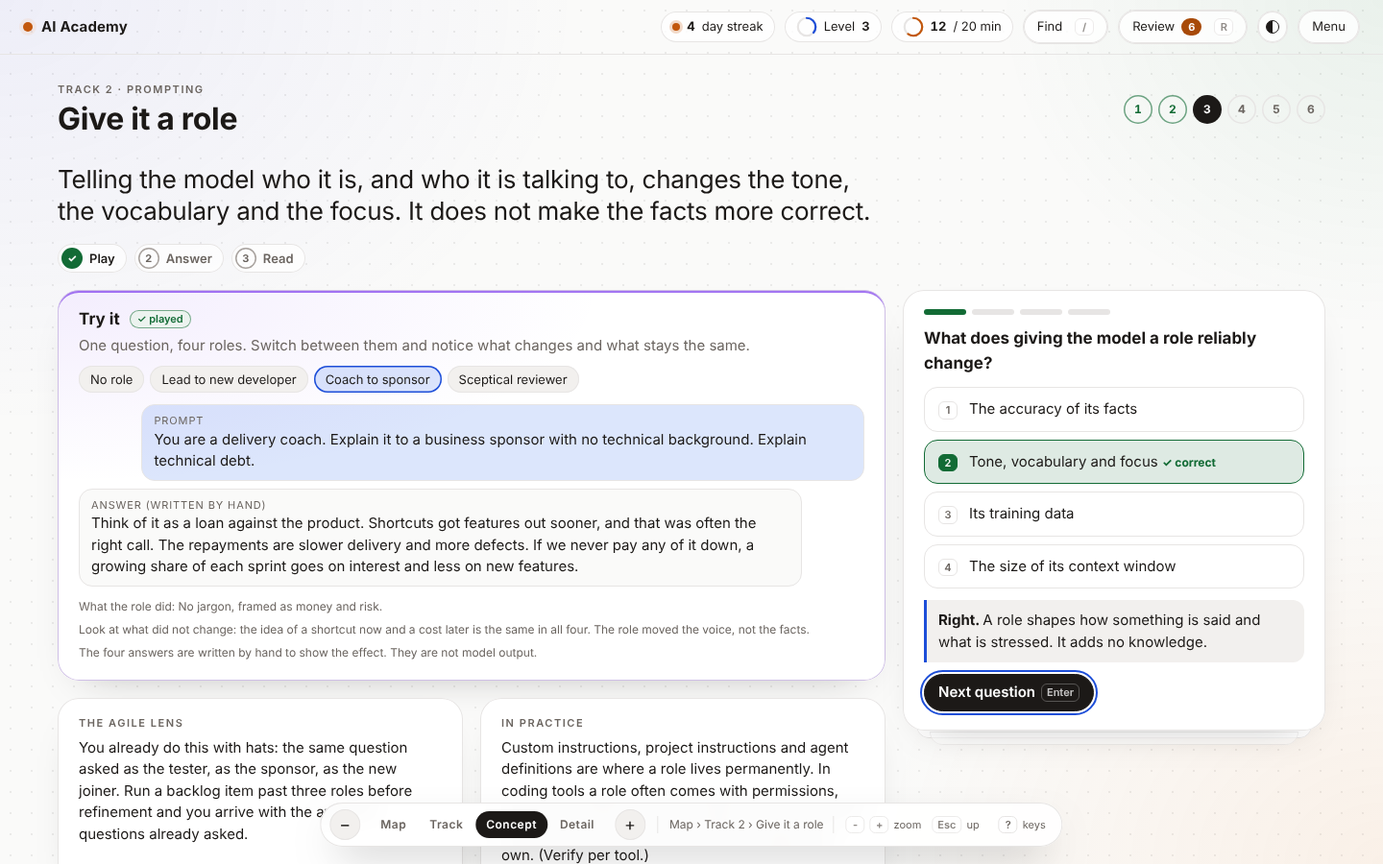
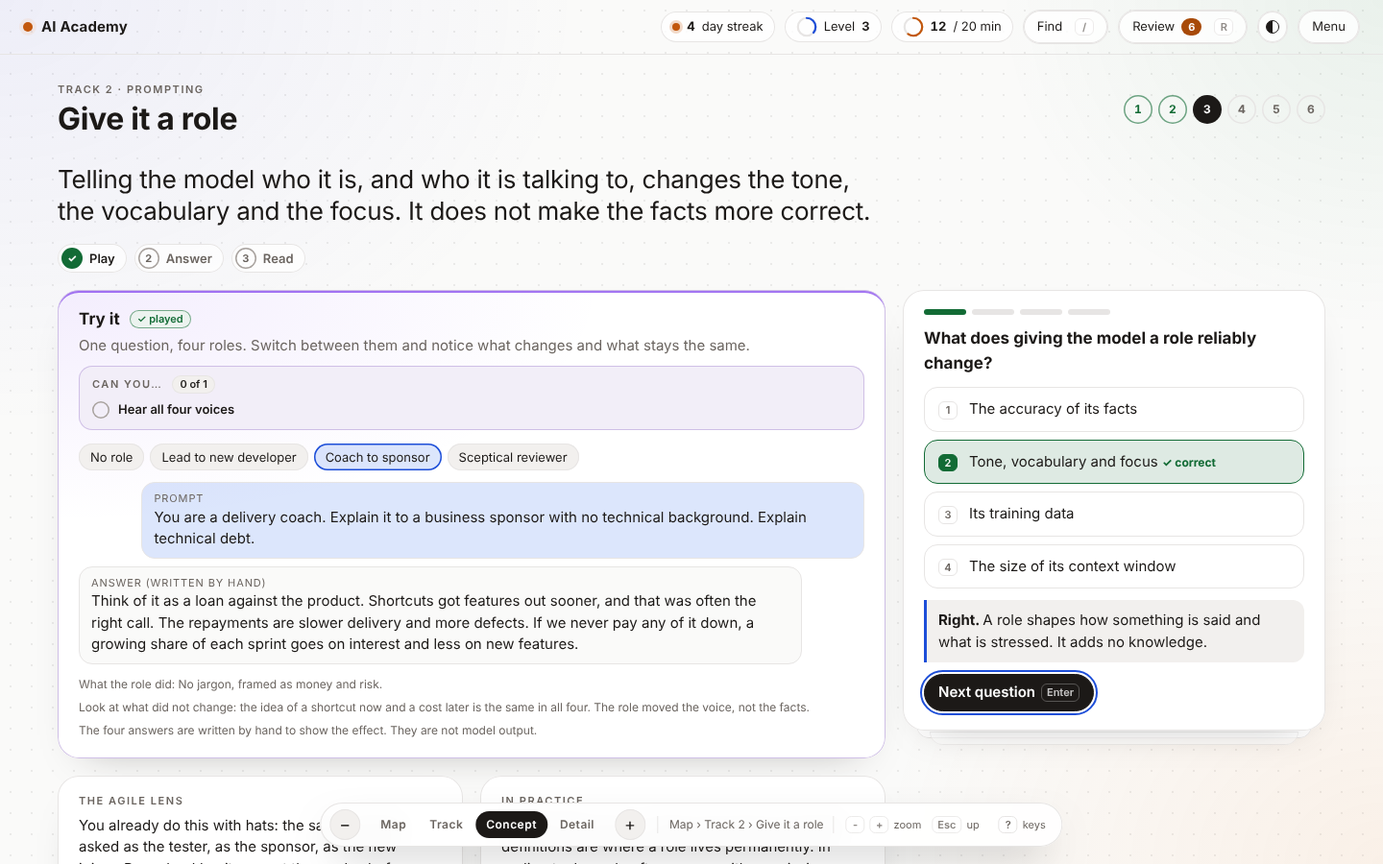
Toys: challenges to find, controls with some weight, optional sound
Each toy lists two or three things to make happen (lose the codename, cause a regression, become the bottleneck). They tick off, burst and are remembered.
Challenges read what the toy shows, so no toy code changes: 21 widgets have hand-written ones, the rest get generic ones (turn a verdict around, try every choice). 45 of 47 lessons have at least one.
Sliders fill in the track's colour with a bigger thumb; checkboxes and radios are drawn by the page and pop when ticked; chips press in; the word just picked lights up.
Sound is off by default; the Menu turns it on. Notes are made with WebAudio, no files.
Saved progress gains found and sound; older files load without them.
Tests: 34 new checks, including one that completes the challenges of 18 toys.

Claude-Session: https://claude.ai/code/session_01SbnCeDgANzMc5u6p79AutJ

Changed region(s): [[0.0625, 0.4044, 0.625, 0.9956], [0.3438, 0.9644, 0.4688, 1.0], [0.3438, 0.4356, 0.4062, 0.4667]]

diff --git a/app.js b/app.js
@@ -9,7 +9,7 @@
   function byId(list, id) { return list.filter(function (x) { return x.id === id; })[0]; }
 
   // ---------- state: kept in this browser only (localStorage), and Save / Load to a file ----------
-  function fresh() { return { v: 1, xp: 0, days: {}, cards: {}, done: {}, goal: 10, read: 22, theme: '', names: [], played: {}, readm: {}, pos: { space: 'learn', track: 'models', concept: 'tokens', zoom: 0, fam: '', role: '' } }; }
+  function fresh() { return { v: 1, xp: 0, days: {}, cards: {}, done: {}, goal: 10, read: 22, theme: '', names: [], played: {}, readm: {}, found: {}, sound: false, pos: { space: 'learn', track: 'models', concept: 'tokens', zoom: 0, fam: '', role: '' } }; }
   // Accept a saved object only if it has the right shape; fill anything missing (older files have no names, no roles position).
   function adopt(j) {
     if (!(j && j.v === 1 && j.cards && typeof j.cards === 'object' && j.days && typeof j.days === 'object')) return null;
@@ -19,7 +19,8 @@
     s.theme = s.theme === 'light' || s.theme === 'dark' ? s.theme : '';
     s.names = Array.isArray(s.names) ? s.names.filter(function (n) { return typeof n === 'string'; }).slice(0, 50) : [];
     if (!s.done || typeof s.done !== 'object') s.done = {};
-    ['played', 'readm'].forEach(function (f) { if (!s[f] || typeof s[f] !== 'object') s[f] = {}; }); // which toys you have poked and which Read more pages you opened
+    s.sound = s.sound === true;
+    ['played', 'readm', 'found'].forEach(function (f) { if (!s[f] || typeof s[f] !== 'object') s[f] = {}; }); // which toys you have poked and which Read more pages you opened
     for (k in s.cards) { c = s.cards[k]; if (!c || typeof c.ef !== 'number' || typeof c.due !== 'number' || typeof c.int !== 'number' || typeof c.rep !== 'number') delete s.cards[k]; }
     for (k in s.days) { c = s.days[k]; if (!c || typeof c.min !== 'number' || typeof c.xp !== 'number') delete s.days[k]; }
     return s;
@@ -33,7 +34,7 @@
   function save() { clearTimeout(saveT); saveT = setTimeout(saveNow, 150); }
   addEventListener('pagehide', saveNow);
   function today() { var k = dayNow(); return S.days[k] || (S.days[k] = { min: 0, xp: 0 }); }
-  function addXp(n) { var l0 = Math.floor(S.xp / 100); S.xp += n; today().xp += n; save(); if (Math.floor(S.xp / 100) > l0) toast('Level ' + (1 + Math.floor(S.xp / 100))); }
+  function addXp(n) { var l0 = Math.floor(S.xp / 100); S.xp += n; today().xp += n; save(); if (Math.floor(S.xp / 100) > l0) { toast('Level ' + (1 + Math.floor(S.xp / 100))); snd('level'); } }
   function activeDay(d) { var x = S.days[d]; return !!x && (x.min >= 1 || x.xp > 0); }
   function streak() { var d = dayNow(), n = 0; if (!activeDay(d)) d--; while (activeDay(d)) { n++; d--; } return n; }
 
@@ -229,12 +230,13 @@
       el.dataset.key = 'learn.' + c.id;
       el.innerHTML = '<div class="wrap lesson" style="--c:' + hue(trackIndex(t)) + '"><div class="head big"><div><div class="kicker">Track ' + (trackIndex(t) + 1) + ' · ' + esc(t.title) + '</div><h1>' + esc(c.title) + '</h1></div><div class="lrail sp" id="lrail" role="group" aria-label="Lessons in this track"></div></div>' +
         '<p class="idea">' + esc(L.idea) + '</p><ol class="steps" id="steps" aria-label="This lesson, in three steps"></ol>' +
-        '<div class="playmat"><section class="card toy" id="toy"><div class="toyhead"><h3>Try it</h3><span class="tag turn" id="toy-state"></span></div><p class="muted" style="margin:0 0 10px">' + esc(L.tryit) + '</p><div class="widget" id="widget"></div><p class="note">' + esc(L.tryNote) + '</p></section>' +
+        '<div class="playmat"><section class="card toy" id="toy"><div class="toyhead"><h3>Try it</h3><span class="tag turn" id="toy-state"></span></div><p class="muted" style="margin:0 0 10px">' + esc(L.tryit) + '</p><div class="missions" id="missions"></div><div class="widget" id="widget"></div><p class="note">' + esc(L.tryNote) + '</p></section>' +
         '<div class="qcol"><section class="card quiz" id="quiz" aria-label="Quiz"></section></div>' +
         '<div class="lenses"><div class="card"><h3>The Agile lens</h3><p>' + esc(L.agile) + '</p></div><div class="card"><h3>In practice</h3><p>' + esc(L.tools) + '</p></div></div></div>' +
         '<p><button type="button" class="btn" data-act="detail" aria-keyshortcuts="+">Read more, in big type' + kbd('+') + '</button></p></div>';
       var host = $('#widget', el);
       if (WIDGETS[L.widget]) WIDGETS[L.widget](host, L, sandboxApi); else host.innerHTML = '<p class="muted">No picture for this one yet.</p>';
+      initMissions(c.id, L.widget, host);
     }
     $('#lrail', el).innerHTML = readyIn(t).map(function (x, i) { // the lessons of this track, as a rail you can walk with the arrows
       return '<button type="button" data-concept="' + x.id + '" class="' + (S.done[x.id] ? 'ok' : '') + '"' + (x.id === c.id ? ' aria-current="true"' : '') + ' title="' + esc(x.title) + '" aria-label="Lesson ' + (i + 1) + ': ' + esc(x.title) + (S.done[x.id] ? ', done' : '') + '">' + (i + 1) + '</button>';
@@ -253,7 +255,93 @@
     var cid = S.pos.concept; if (S.pos.space !== 'learn' || S.pos.zoom !== 2 || !cid || S.played[cid]) return;
     S.played[cid] = true; save(); renderSteps(cid); burst($('#toy-state'), 'var(--ok)', 8);
   }
-  ['input', 'change', 'click'].forEach(function (ev) { $('#L2').addEventListener(ev, function (e) { if (e.target.closest && e.target.closest('#widget') && (ev !== 'click' || e.target.closest('button, input, label'))) markPlayed(); }, true); }); // capture: a toy may redraw the button you pressed before the click gets here
+  ['input', 'change', 'click'].forEach(function (ev) {
+    $('#L2').addEventListener(ev, function (e) { // capture: a toy may redraw the button you pressed before the click gets here
+      if (!(e.target.closest && e.target.closest('#widget') && (ev !== 'click' || e.target.closest('button, input, label')))) return;
+      markPlayed();
+      var b = ev === 'click' && e.target.closest('button'), g = b && b.closest('.exs');
+      if (M && g && M.w.contains(g)) { var k = groupKey(M.w, g); (M.pressed[k] = M.pressed[k] || {})[$$('button', g).indexOf(b)] = 1; }
+      setTimeout(checkMissions, 0); // after the toy has redrawn
+    }, true);
+  });
+
+  // ---------- challenges: two or three things to make happen in each toy. They read what the toy shows, so a toy needs no code of its own for them. ----------
+  function vis(sel) { return function (w) { var e = w.querySelector(sel); return !!e && e.getClientRects().length > 0; }; }
+  function txt(sel, re) { return function (w) { var e = w.querySelector(sel); return !!e && e.getClientRects().length > 0 && re.test(e.textContent); }; }
+  function num(sel, re, test) { return function (w) { var e = w.querySelector(sel), m = e && re.exec(e.textContent); return !!m && test(+m[1], +m[2], +m[3]); }; }
+  function all(sel) { return function (w, m) { var g = w.querySelector(sel); return !!g && Object.keys(m.pressed[groupKey(w, g)] || {}).length >= g.querySelectorAll('button').length; }; }
+  function flipped(w, m) { return m.flipped; }
+  function val(w, sel) { var e = w.querySelector(sel); return e ? +e.value : NaN; }
+  var MISSIONS = {
+    tokens: [['Blow the 100-token budget', vis('#tk-meter.over')], ['Find text that needs a token for every two characters, or worse', function (w) { var b = w.querySelectorAll('#tk-stat b'); return b.length === 4 && +b[0].textContent >= 5 && +b[3].textContent <= 2; }]],
+    context: [['Make the model lose the codename', vis('#cx-verdict.bad')], ['Bring the codename back with a summary', function (w) { return vis('#cx-verdict.ok')(w) && vis('#cx-chat .msg.sum')(w); }]],
+    nexttoken: [['Pick 20 times or more and get the same word every time', num('#nt-sum', /^(\d+) picks?, 1 different/, function (n) { return n >= 20; })], ['Get five different words', num('#nt-sum', /(\d+) different/, function (n) { return n >= 5; })]],
+    training: [['Ask about a word it never saw', txt('#tr-out', /not in its training text/)], ['Change the text and catch the model not noticing', txt('#tr-state', /text changed since training/)]],
+    wrong: [['Catch it inventing an answer', txt('#wr-verdict', /Invented/)], ['Get an honest answer to something the page does not say', txt('#wr-verdict', /Honest/)]],
+    parts: [['Build a prompt that scores 6 of 6', txt('#pt-score', /6 of 6/)]],
+    narrow: [['Tick every adjective and count what is left', function (w) { var t = $$('[data-tell]', w); return t.length > 0 && t.every(function (x) { return x.checked; }); }], ['Narrow it to one reading', txt('#nw-count', /^1 of/)]],
+    rolepick: [['Hear all four voices', all('#rp-tabs')]],
+    formatpick: [['Find a format a program cannot read', txt('#fp-checks', /parser stopped/)], ['Get JSON that parses', txt('#fp-checks', /parsed \d+ items/)]],
+    iterate: [['Pass all four test cases', txt('#it-count', /4 of 4/)], ['Cause a regression', txt('#it-log', /regression/i)]],
+    sandbox: [['Score 6 of 6', txt('#sb-score', /6 of 6/)], ['Set off the real-data warning', vis('#sb-alarm')]],
+    tooluse: [['Make it answer without the tool it needs', vis('#tu-verdict.bad')], ['Ask something that needs no tool', txt('#tu-verdict', /No tool was needed/)]],
+    loop: [['Run it to a finish with the tests passing', vis('#lp-verdict.ok')], ['Stop it with the work half done', txt('#lp-verdict', /half-done/)]],
+    planning: [['Put the steps in an order that works', vis('#pl-order.ok')], ['Approve only where it matters', vis('#pl-gate.ok')], ['Make yourself the bottleneck', txt('#pl-gate', /bottleneck/)]],
+    memory: [['Get a stale answer', txt('#mm-verdict', /Stale/)], ['Set off the secret warning', vis('#mm-secret')]],
+    chain: [['Keep each step at 95 in 100 or better, and still fall below 50%', function (w) { return val(w, '#ch-p') >= 95 && parseFloat(($('#ch-out b', w) || {}).textContent) < 50; }], ['Lift a job of 20 steps or more above 90%', function (w) { return val(w, '#ch-n') >= 20 && parseFloat(($('#ch-out b', w) || {}).textContent) >= 90; }]],
+    terms: [['Look up all six words', all('#tm-pick')]],
+    gates: [['Let it build the wrong thing', vis('#gt-verdict.bad')], ['Get it right by luck, with no record', txt('#gt-verdict', /luck/)]],
+    whodoes: [['Sort every task in one phase', function (w) { var n = $$('#wd-body fieldset', w).length; return n > 0 && $$('#wd-body input:checked', w).length === n; }]],
+    claims: [['Judge every statement', num('#cl-score', /of (\d+) right so far, out of (\d+)/, function (a, b) { return a === b; })]],
+    rehearse: [['Write your own answer, then compare it with the sample', function (w) { var e = w.querySelector('#rh-sample'); return !!e && e.textContent.trim().length > 0; }]]
+  };
+  var M = null; // the toy on screen: its lesson, its challenges, what has been pressed, and how its verdicts stood
+  function groupKey(w, g) { return g.id || 'g' + $$('.exs', w).indexOf(g); }
+  function verdicts(w) { return $$('.verdict', w).map(function (v) { return v.classList.contains('ok') ? 'o' : v.classList.contains('bad') ? 'b' : '-'; }); }
+  function initMissions(cid, name, w) {
+    var list = MISSIONS[name], g;
+    if (!list) { // a toy with no challenges written for it still gets what can be told from the outside
+      list = []; g = w.querySelector('.exs');
+      if (w.querySelector('.verdict')) list.push(['Turn a verdict around: from good to bad, or back', flipped]);
+      if (g && g.querySelectorAll('button').length >= 3) list.push(['Try every choice in the first row', all('.exs')]);
+    }
+    M = { cid: cid, w: w, list: list, pressed: {}, flipped: false, sig: verdicts(w) };
+    renderMissions();
+  }
+  function renderMissions() {
+    var box = $('#missions'); if (!box || !M) return;
+    var f = S.found[M.cid] || [], n = M.list.filter(function (x, i) { return f[i]; }).length, done = n === M.list.length;
+    box.hidden = !M.list.length;
+    box.innerHTML = M.list.length ? '<div class="mhead"><span class="label">Can you…</span><span class="tag' + (done ? ' go' : '') + '">' + (done ? 'all found' : n + ' of ' + M.list.length) + '</span></div><ul>' +
+      M.list.map(function (x, i) { return '<li class="' + (f[i] ? 'ok' : '') + '"><i aria-hidden="true">' + (f[i] ? '✓' : '') + '</i>' + esc(x[0]) + '<span class="sr">' + (f[i] ? ', found' : '') + '</span></li>'; }).join('') + '</ul>' : '';
+  }
+  function checkMissions() {
+    if (!M || S.pos.space !== 'learn' || S.pos.zoom !== 2 || M.cid !== S.pos.concept || !document.contains(M.w)) return;
+    var s = verdicts(M.w), f = S.found[M.cid] || (S.found[M.cid] = []), hit = -1, i;
+    if (s.length === M.sig.length) for (i = 0; i < s.length; i++) if ((s[i] === 'o' && M.sig[i] === 'b') || (s[i] === 'b' && M.sig[i] === 'o')) M.flipped = true;
+    M.sig = s;
+    M.list.forEach(function (x, k) { if (!f[k] && x[1](M.w, M)) { f[k] = true; hit = k; } });
+    if (hit < 0) return;
+    save(); renderMissions(); snd('found'); burst($$('#missions li')[hit], 'var(--ok)', 10);
+    if (M.list.every(function (x, k) { return f[k]; })) toast('All found');
+  }
+
+  // ---------- sound: off unless you turn it on in the Menu. A few soft notes made in the browser; no files. ----------
+  var AC = null;
+  function snd(kind) {
+    if (!S.sound) return;
+    try {
+      AC = AC || new (window.AudioContext || window.webkitAudioContext)();
+      var t = AC.currentTime, notes = { ok: [660, 880], bad: [196], found: [523, 659, 784], level: [523, 659, 784, 1047] }[kind] || [440];
+      notes.forEach(function (hz, i) {
+        var o = AC.createOscillator(), g = AC.createGain(), at = t + i * 0.09;
+        o.type = kind === 'bad' ? 'triangle' : 'sine'; o.frequency.value = hz;
+        g.gain.setValueAtTime(0.0001, at); g.gain.linearRampToValueAtTime(0.07, at + 0.012); g.gain.exponentialRampToValueAtTime(0.0001, at + 0.24);
+        o.connect(g); g.connect(AC.destination); o.start(at); o.stop(at + 0.26);
+      });
+    } catch (e) { /* no audio here: stay silent */ }
+  }
+  function fillRange(el) { var lo = +el.min || 0, hi = el.max === '' ? 100 : +el.max; el.style.setProperty('--v', (hi > lo ? (el.value - lo) / (hi - lo) * 100 : 0).toFixed(1) + '%'); } // how far along a slider is, for its coloured track
 
   // ---------- small celebrations: a burst of dots, a number that floats up. Skipped when reduced motion is on. ----------
   var calm = window.matchMedia ? matchMedia('(prefers-reduced-motion: reduce)') : { matches: false };
@@ -411,7 +499,7 @@
     var q = QSETS[Q.sid][Q.i]; if (i >= q.opts.length) return;
     var ok = i === q.a, g = 0; Q.picked = i; Q.res[Q.i] = ok; if (ok) Q.right++; Q.combo = ok ? (Q.combo || 0) + 1 : 0;
     if (!S.cards[q.id]) { grade(q.id, ok ? 4 : 1); g = ok ? 5 : 1; addXp(g); Q.gain = (Q.gain || 0) + g; Q.added = (Q.added || 0) + 1; } // only the first sight of a question makes a card and earns XP
-    renderQuiz(true); renderChips();
+    renderQuiz(true); renderChips(); snd(ok ? 'ok' : 'bad');
     var hit = $(Q.box + ' .opt.right'); if (ok) burst(hit, 'var(--ok)', 10); if (g) flyXp(ok ? hit : $(Q.box + ' .opt.wrong'), g);
   }
   function nextQ() {
@@ -438,7 +526,7 @@
     var g = ''; [10, 20, 30, 45, 60].forEach(function (m) { g += '<label><input type="radio" name="m-goal" value="' + m + '"' + (m === S.goal ? ' checked' : '') + ' aria-label="' + m + ' minutes"><span>' + m + '</span></label>'; });
     $('#menu').innerHTML = '<h3>Go to</h3><div class="row"><button type="button" class="btn" data-m="map">Learning map' + kbd('M') + '</button>' + (RO ? '<button type="button" class="btn" data-m="roles">Roles tree' + kbd('T') + '</button>' : '') + (WIDGETS.sandbox ? '<button type="button" class="btn" data-m="sandbox">Prompt sandbox' + kbd('S') + '</button>' : '') + '</div>' +
       '<h3>Daily goal</h3><div class="row"><div class="segctl" id="m-goal" role="radiogroup" aria-label="Daily goal">' + g + '</div><span class="muted" style="font-size:13px">minutes</span></div>' +
-      '<h3>Look</h3><div class="row"><button type="button" class="btn" data-m="theme">Theme: ' + (S.theme || 'auto') + '</button></div>' +
+      '<h3>Look and sound</h3><div class="row"><button type="button" class="btn" data-m="theme">Theme: ' + (S.theme || 'auto') + '</button><button type="button" class="btn" data-m="sound" aria-pressed="' + !!S.sound + '">Sound: ' + (S.sound ? 'on' : 'off') + '</button></div>' +
       '<h3>Your progress</h3><p class="muted" style="margin:0;font-size:13px">Kept in this browser only. Save a copy to a file to move it or keep it safe.</p>' +
       '<div class="row"><button type="button" class="btn" data-m="save">Save to file</button><button type="button" class="btn" data-m="load">Load from file</button><button type="button" class="btn warn" data-m="reset">' + (resetArmed ? 'Press again to erase it all' : 'Reset progress') + '</button></div>' + (menuMsg ? '<p class="muted" style="margin:0;font-size:13px" role="status" id="m-msg">' + esc(menuMsg) + '</p>' : '') +
       '<h3>Keys</h3><div class="row"><button type="button" class="btn" data-m="keys">Keyboard shortcuts' + kbd('?') + '</button></div>' +
@@ -492,7 +580,7 @@
     box.innerHTML = '<div class="sheet"><div class="sheethead"><h2 class="kicker" id="rv-title">Review · card ' + (R.i + 1) + ' of ' + R.ids.length + '</h2>' + segs(shown) + close + '</div><div class="card"><p class="q" tabindex="-1">' + esc(q.q) + '</p>' + optsHtml(q, R.picked, 'data-ropt', focus) + tail + '</div></div>';
     if (focus) { var f = R.picked === null ? $('.q', box) : $('[data-g="4"]', box) || $('[data-g="1"]', box); if (f) f.focus(); }
   }
-  function rpick(i) { if (R && R.picked === null && R.i < R.ids.length && i < QINDEX[R.ids[R.i]].opts.length) { R.picked = i; renderReview(true); if (i === QINDEX[R.ids[R.i]].a) burst($('#review .opt.right'), 'var(--ok)', 10); } }
+  function rpick(i) { if (R && R.picked === null && R.i < R.ids.length && i < QINDEX[R.ids[R.i]].opts.length) { R.picked = i; renderReview(true); snd(i === QINDEX[R.ids[R.i]].a ? 'ok' : 'bad'); if (i === QINDEX[R.ids[R.i]].a) burst($('#review .opt.right'), 'var(--ok)', 10); } }
   function rgrade(g) { if (!R || R.picked === null) return; var id = R.ids[R.i]; grade(id, g); addXp(2); R.gain += 2; R.i++; R.picked = null; renderReview(true); renderChips(); }
 
   // The sandbox keeps the names you list (to warn about them) in this browser. They are left out of the Save file.
@@ -590,6 +678,7 @@
   var MARKED = '.on, .cur, .here, [aria-pressed="true"], [aria-current]';
   function itemsOf(g) { return $$(ITEMS, g).filter(function (x) { return x.closest(GROUPS) === g; }); }
   function rove() {
+    $$('.widget input[type=range]').forEach(fillRange);
     $$(GROUPS).forEach(function (g) {
       var it = itemsOf(g); if (!it.length) return;
       var a = document.activeElement, cur = it.indexOf(a) >= 0 ? a : it.filter(function (x) { return x.getAttribute('tabindex') === '0'; })[0] || it.filter(function (x) { return x.matches(MARKED); })[0] || it[0];
@@ -687,7 +776,7 @@
     if (b.id === 'c-menu') return toggleMenu();
   });
   function goContinue() { var nx = nextLesson(); if (nx) act(function () { goLesson(nx); }); }
-  function toggleMenu() { var m = $('#menu'); if (m.hidden) { renderMenu(); m.hidden = false; rove(); var f = $('button', m); if (f) f.focus(); } else return closeMenu(true); $('#c-menu').setAttribute('aria-expanded', 'true'); }
+  function toggleMenu() { var m = $('#menu'); if (m.hidden) { renderMenu(); m.hidden = false; var f = $('button', m); if (f) f.focus(); rove(); } else return closeMenu(true); $('#c-menu').setAttribute('aria-expanded', 'true'); }
   function closeMenu(refocus) { var m = $('#menu'); if (!m.hidden) { m.hidden = true; $('#c-menu').setAttribute('aria-expanded', 'false'); if (refocus) $('#c-menu').focus(); } }
   $('#menu').addEventListener('focusout', function (e) { var to = e.relatedTarget; if (to && !$('#menu').contains(to) && to.id !== 'c-menu') closeMenu(); }); // Tab out of the menu and it closes behind you
   function menuAct(a) {
@@ -697,6 +786,7 @@
     if (a === 'sandbox') { $('#c-menu').focus(); closeMenu(); return openSandbox(); } // focus first: closing the sheet hands it back to the Menu button
     if (a === 'keys') { $('#c-menu').focus(); closeMenu(); return openKeys(); }
     if (a === 'theme') cycleTheme();
+    else if (a === 'sound') { S.sound = !S.sound; save(); snd('found'); }
     else if (a === 'save') {
       var out = Object.assign({}, S, { names: [], saved: new Date().toISOString() }); // the names you listed for the sandbox stay out of the file
       var blob = new Blob([JSON.stringify(out, null, 1)], { type: 'application/json' }), x = document.createElement('a');
@@ -706,7 +796,7 @@
     else if (a === 'reset') { if (!resetArmed) { resetArmed = true; renderMenu(); rove(); $('[data-m="reset"]').focus(); setTimeout(function () { resetArmed = false; if (!$('#menu').hidden && $('[data-m="reset"]')) { var had = document.activeElement === $('[data-m="reset"]'); renderMenu(); rove(); if (had) $('[data-m="reset"]').focus(); } }, 4000); return; } resetArmed = false; S = fresh(); try { localStorage.removeItem(KEY); } catch (e) { /* nothing stored */ } Q = null; applyTheme(); applyRead(); $('#L2').dataset.key = ''; renderAll(); menuMsg = 'Progress erased.'; }
     renderMenu(); rove(); var again = $('[data-m="' + a + '"]'); if (again) again.focus();
   }
-  document.addEventListener('input', function (e) { if (F && e.target.id === 'fd-in') findDraw(e.target.value); });
+  document.addEventListener('input', function (e) { if (F && e.target.id === 'fd-in') findDraw(e.target.value); if (e.target.type === 'range') fillRange(e.target); });
   document.addEventListener('change', function (e) {
     if (e.target.name === 'm-goal') { S.goal = +e.target.value; save(); renderChips(); }
     if (e.target.id === 'm-file' && e.target.files[0]) {

diff --git a/tests/run.js b/tests/run.js
@@ -1338,6 +1338,109 @@ ok((await page.locator('#rt-verdict').getAttribute('class')).includes('bad') && 
   eq([await page.locator('.burst, .xpfly').count(), await text(page, '#toy-state'), await page.locator('#quiz .opt.right').count()], [0, '✓ played', 1], 'with reduced motion on there are no bursts or floating numbers, and everything still works');
   await page.close();
 
+  // ------------------------------------------------------------------ toys: challenges, controls, sound
+  section('Toys: challenges to find, controls, sound');
+  page = await open(browser, { viewport: { width: 1440, height: 900 } });
+  const found = id => D(page, id => (ACADEMY_DEBUG.state().found[id] || []).map(Boolean), id);
+  const mlist = () => D(page, () => [...document.querySelectorAll('#missions li')].map(l => (l.classList.contains('ok') ? '+' : '-') + l.childNodes[1].textContent));
+  const settle = () => page.waitForTimeout(30);
+  await goLesson(page, 'models', 'context');
+  eq([await mlist(), await text(page, '#missions .tag')], [['-Make the model lose the codename', '-Bring the codename back with a summary'], '0 of 2'], 'a toy lists its challenges, none found yet');
+  await setRange(page, '#cx-turns', 9); await setRange(page, '#cx-win', 80); await settle();
+  eq([await found('context'), (await mlist())[0], await text(page, '#missions .tag')], [[true], '+Make the model lose the codename', '1 of 2'], 'making it happen ticks the challenge');
+  ok(await page.locator('.burst').count() >= 1, 'with a burst');
+  await setRange(page, '#cx-win', 140); await page.check('#cx-sum'); await settle();
+  eq([await found('context'), await text(page, '#missions .tag'), await text(page, '#toast')], [[true, true], 'all found', 'All found'], 'the second one too, and the toy says all found');
+  await setRange(page, '#cx-win', 200); await page.uncheck('#cx-sum'); await settle();
+  eq(await found('context'), [true, true], 'a challenge stays found when the toy moves on');
+
+  await goLesson(page, 'models', 'tokens');
+  await page.fill('#tk-in', 'word '.repeat(110)); await settle();
+  await page.fill('#tk-in', '1 2 3 4 5 6 7 8'); await settle();
+  eq(await found('tokens'), [true, true], 'tokens: both challenges can be found (over the budget, and a token for every two characters)');
+  await goLesson(page, 'models', 'nexttoken');
+  await setRange(page, '#nt-t', 0); await page.click('#widget [data-n="20"]'); await settle();
+  ok(await page.locator('#nt-bars .bar.hit').count() === 1, 'next token: the word just picked lights up');
+  await page.click('#widget [data-n="0"]'); await setRange(page, '#nt-t', 2);
+  for (let i = 0; i < 4; i++) await page.click('#widget [data-n="20"]'); await settle();
+  eq(await found('nexttoken'), [true, true], 'next token: one word every time at temperature 0, five different at temperature 2');
+  await goLesson(page, 'models', 'training');
+  await page.click('#widget [data-a="train"]'); await page.click('#widget [data-start="cook"]'); await settle();
+  await page.fill('#tr-text', 'The cook chops the onions.'); await settle();
+  eq(await found('training'), [true, true], 'training: both found');
+  await goLesson(page, 'models', 'wrong');
+  await page.click('#widget [data-q="1"]'); await page.click('#wr-check'); await settle();
+  await page.check('#widget input[value="idk"]'); await page.click('#widget [data-q="1"]'); await page.click('#wr-check'); await settle();
+  eq(await found('wrong'), [true, true], 'sure and wrong: both found');
+  await goLesson(page, 'prompting', 'parts');
+  for (const id of ['role', 'context', 'format', 'constraints', 'example']) await page.check('#widget [data-part="' + id + '"]'); await settle();
+  eq(await found('parts'), [true], 'parts: found');
+  await goLesson(page, 'prompting', 'examples');
+  for (const i of [0, 1, 2]) await page.check('#widget [data-tell="' + i + '"]'); await settle();
+  await page.check('#widget [data-show="0"]'); await page.check('#widget [data-show="1"]'); await settle();
+  eq(await found('examples'), [true, true], 'show, do not tell: both found');
+  await goLesson(page, 'prompting', 'roles');
+  for (const i of [1, 2, 3]) await page.click('#widget [data-v="' + i + '"]'); await settle();
+  eq(await found('roles'), [], 'roles: three of four voices is not all of them');
+  await page.click('#widget [data-v="0"]'); await settle();
+  eq(await found('roles'), [true], 'roles: all four is');
+  await goLesson(page, 'prompting', 'format');
+  await page.click('#widget [data-f="3"]'); await settle(); await page.click('#widget [data-f="4"]'); await settle();
+  eq(await found('format'), [true, true], 'format: both found');
+  await goLesson(page, 'prompting', 'iterate');
+  for (const id of ['who', 'list', 'none']) await page.check('#widget [data-fix="' + id + '"]'); await settle();
+  await page.check('#widget [data-fix="creative"]'); await settle();
+  eq(await found('iterate'), [true, true], 'iterate: both found');
+  await goLesson(page, 'prompting', 'judge');
+  await page.click('#L2 #widget [data-ex="2"]'); await settle(); await page.click('#L2 #widget [data-ex="3"]'); await settle();
+  eq(await found('judge'), [true, true], 'judging a prompt: both found');
+  await goLesson(page, 'agents', 'tooluse');
+  await page.uncheck('#widget [data-tool="calc"]'); await settle(); await page.click('#widget [data-q="2"]'); await settle();
+  eq(await found('tooluse'), [true, true], 'tool use: both found');
+  await goLesson(page, 'agents', 'loop');
+  await page.click('#widget [data-a="run"]'); await settle();
+  await page.click('#widget [data-a="reset"]'); await setRange(page, '#lp-max', 4); await page.click('#widget [data-a="run"]'); await settle();
+  eq(await found('loop'), [true, true], 'agent loop: both found');
+  await goLesson(page, 'agents', 'planning');
+  await page.check('#widget [data-gate="deploy"]'); await settle();
+  for (const id of ['read', 'write', 'code']) await page.check('#widget [data-gate="' + id + '"]'); await settle();
+  eq((await found('planning')).slice(1), [true, true], 'planning: the approval challenges are found (the order one is covered by the planning checks above)');
+  await goLesson(page, 'agents', 'memory');
+  await page.check('#widget [data-save="secret"]'); await settle(); await page.click('#widget [data-a="new"]'); await page.check('#widget [data-change]'); await page.click('#widget [data-ask="day"]'); await settle();
+  eq(await found('memory'), [true, true], 'memory: both found');
+  await goLesson(page, 'agents', 'agentfail');
+  await setRange(page, '#ch-n', 20); await settle(); await page.check('#ch-check'); await settle();
+  eq(await found('agentfail'), [true, true], 'where agents fail: both found');
+  await goLesson(page, 'agile', 'aidlc');
+  for (const i of [0, 1, 2, 3, 4, 5]) await page.click('#widget [data-t="' + i + '"]'); await settle();
+  eq(await found('aidlc'), [true], 'AI-DLC terms: found');
+  await goLesson(page, 'agile', 'aigates');
+  await page.uncheck('#gt-on'); await settle(); await page.check('#widget [data-need="pdf"]'); await settle();
+  eq(await found('aigates'), [true, true], 'gates: both found');
+  await goLesson(page, 'agile', 'airehearse');
+  await page.fill('#rh-in', 'AI-DLC is a method that makes AI the engine of each step, with people validating.'); await page.click('#rh-show'); await settle();
+  eq(await found('airehearse'), [true], 'rehearse: found');
+
+  const cover = await D(page, () => { const out = { all: 0, some: 0, none: [] }; ACADEMY.tracks.forEach(t => t.concepts.forEach(c => { if (!ACADEMY.lessons[c.id]) return; ACADEMY_DEBUG.go(2, t.id, c.id); out.all++; if (document.querySelectorAll('#missions li').length) out.some++; else out.none.push(c.id); })); return out; });
+  ok(cover.some >= 40 && cover.some >= cover.all - 12, 'most toys have at least one challenge (written for the first tracks, read from the toy for the rest)', cover.some + ' of ' + cover.all + '; none: ' + cover.none.join(' '));
+  ok(await D(page, none => { if (!none.length) return true; const t = ACADEMY.tracks.find(t => t.concepts.some(c => c.id === none[0])); ACADEMY_DEBUG.go(2, t.id, none[0]); return document.querySelector('#missions').hidden; }, cover.none), 'a toy with no challenge hides the box');
+  console.log('    challenges: ' + cover.some + ' of ' + cover.all + ' toys' + (cover.none.length ? '; none on: ' + cover.none.join(', ') : ''));
+
+  await goLesson(page, 'models', 'context'); await setRange(page, '#cx-win', 160);
+  eq(await D(page, () => [document.querySelector('#cx-win').style.getPropertyValue('--v'), getComputedStyle(document.querySelector('#cx-sum')).appearance]), ['52.4%', 'none'], 'sliders know how far along they are (for the coloured track), and checkboxes are drawn by the page');
+  await page.focus('#cx-win'); await page.keyboard.press('ArrowRight');
+  ok(/170 tokens/.test(await text(page, '#cx-winv')) && await page.locator('#cx-sum').isChecked() === false, 'and they still work from the keyboard');
+  await page.focus('#cx-sum'); await page.keyboard.press('Space'); ok(await page.locator('#cx-sum').isChecked(), 'Space still ticks a checkbox');
+
+  await page.click('#c-menu'); await page.click('#menu [data-m="sound"]');
+  eq(await D(page, () => [ACADEMY_DEBUG.state().sound, document.activeElement.dataset.m, document.activeElement.textContent, document.activeElement.getAttribute('aria-pressed')]), [true, 'sound', 'Sound: on', 'true'], 'the Menu turns sound on, and the button says so and keeps focus');
+  await page.keyboard.press('Escape'); await goLesson(page, 'models', 'tokens'); await page.keyboard.press('1'); await page.keyboard.press('Enter'); await page.keyboard.press('2');
+  eq(page.errors, [], 'answering with sound on raises no errors');
+  await page.reload();
+  eq(await D(page, () => [ACADEMY_DEBUG.state().sound, ACADEMY_DEBUG.state().found.context.length, ACADEMY_DEBUG.adopt({ v: 1, cards: {}, days: {} }).sound]), [true, 2, false], 'sound and found challenges survive a reload; sound is off in a fresh or older save');
+  eq(page.net, [], 'sound is made in the browser: still nothing over the network');
+  await page.close();
+
   await browser.close();
   console.log('\n' + pass + ' passed, ' + fail + ' failed');
   if (fail) { console.log('\nFailed:\n  ' + failures.join('\n  ')); process.exit(1); }

diff --git a/style.css b/style.css
@@ -506,6 +506,33 @@ fieldset.seg label { display: flex; gap: 8px; align-items: flex-start; min-heigh
 @keyframes vshake { 25% { transform: translateX(-3px); } 75% { transform: translateX(3px); } from { background: color-mix(in srgb, var(--err) 16%, var(--chip)); } }
 .widget .verdict.ok { animation: vpop .5s var(--ease); } .widget .verdict.bad { animation: vshake .32s ease-in-out; }
 
+/* ---------- toys: challenges to find, and controls that feel like something ---------- */
+.sr { position: absolute; width: 1px; height: 1px; overflow: hidden; clip-path: inset(50%); white-space: nowrap; }
+.missions { margin: 2px 0 14px; padding: 10px 14px 12px; border-radius: 14px; background: color-mix(in srgb, var(--c) 6%, var(--bg)); box-shadow: inset 0 0 0 1px color-mix(in srgb, var(--c) 22%, var(--line)); }
+.mhead { display: flex; align-items: center; gap: 10px; margin-bottom: 7px; }
+.missions ul { list-style: none; margin: 0; padding: 0; display: grid; gap: 5px; font-size: var(--fs-md); }
+.missions li { display: flex; gap: 9px; align-items: center; font-weight: 600; }
+.missions li i { flex: none; font-style: normal; width: 18px; height: 18px; border-radius: 50%; display: grid; place-items: center; font-size: 10px; font-weight: 700; box-shadow: inset 0 0 0 1.5px var(--neutral); }
+.missions li.ok { color: var(--muted); font-weight: 500; } .missions li.ok i { background: var(--ok); color: var(--bg); box-shadow: none; animation: stamp .4s var(--ease); }
+.widget input[type=range] { -webkit-appearance: none; appearance: none; background: none; height: 28px; cursor: pointer; }
+.widget input[type=range]::-webkit-slider-runnable-track { height: 8px; border-radius: 99px; background: linear-gradient(90deg, var(--c, var(--info)) var(--v, 50%), var(--ring-bg) var(--v, 50%)); }
+.widget input[type=range]::-webkit-slider-thumb { -webkit-appearance: none; width: 22px; height: 22px; margin-top: -7px; border-radius: 50%; background: var(--surface); border: 2px solid var(--c, var(--info)); box-shadow: 0 2px 6px rgba(0,0,0,.22); transition: transform .12s ease; }
+.widget input[type=range]:active::-webkit-slider-thumb { transform: scale(1.18); }
+.widget input[type=range]::-moz-range-track { height: 8px; border-radius: 99px; background: var(--ring-bg); }
+.widget input[type=range]::-moz-range-progress { height: 8px; border-radius: 99px; background: var(--c, var(--info)); }
+.widget input[type=range]::-moz-range-thumb { width: 18px; height: 18px; border-radius: 50%; background: var(--surface); border: 2px solid var(--c, var(--info)); box-shadow: 0 2px 6px rgba(0,0,0,.22); }
+.widget input[type=range]:focus-visible { outline-offset: 4px; border-radius: 99px; }
+.widget input[type=checkbox], .widget input[type=radio] { -webkit-appearance: none; appearance: none; width: 20px; height: 20px; margin: 2px 0 0; border: 1.5px solid var(--neutral); background: var(--surface); border-radius: 6px; display: inline-grid; place-content: center; cursor: pointer; transition: background .12s, border-color .12s; }
+.widget input[type=radio] { border-radius: 50%; }
+.widget input[type=checkbox]::after { content: ""; width: 10px; height: 6px; border-left: 2px solid var(--bg); border-bottom: 2px solid var(--bg); transform: rotate(-45deg) translate(1px, -1px) scale(0); transition: transform .16s var(--ease); }
+.widget input[type=radio]::after { content: ""; width: 8px; height: 8px; border-radius: 50%; background: var(--bg); transform: scale(0); transition: transform .16s var(--ease); }
+.widget input[type=checkbox]:checked, .widget input[type=radio]:checked { background: var(--c, var(--accent)); border-color: var(--c, var(--accent)); }
+.widget input[type=checkbox]:checked::after { transform: rotate(-45deg) translate(1px, -1px) scale(1); } .widget input[type=radio]:checked::after { transform: scale(1); }
+.widget label:hover input[type=checkbox]:not(:checked), .widget label:hover input[type=radio]:not(:checked) { border-color: var(--c, var(--accent)); }
+.exs button { transition: transform .12s ease, box-shadow .12s ease, background .12s ease; } .exs button:active { transform: scale(.95); }
+@keyframes barhit { from { background: color-mix(in srgb, var(--run) 22%, transparent); } }
+.bar.hit { border-radius: 8px; animation: barhit .7s ease-out; } .bar.hit .w { font-weight: 700; }
+
 @media (prefers-reduced-motion: reduce) {
   /* transitions are off altogether, not just very short: a .01ms transition on an inherited property (visibility) still leaves a layer hidden for a frame, and the keyboard cannot land in it */
   *, *::before, *::after { transition: none !important; animation-duration: .01ms !important; animation-delay: 0s !important; animation-iteration-count: 1 !important; scroll-behavior: auto !important; }

diff --git a/widgets.js b/widgets.js
@@ -124,13 +124,14 @@ var WIDGETS = {};
       var E = L.examples[st.ex], p = softmax(E.cands.map(function (c) { return c[1]; }), st.T), tally = E.cands.map(function () { return 0; }), h = '';
       st.picks.forEach(function (i) { tally[i]++; });
       E.cands.forEach(function (c, i) {
-        h += '<div class="bar"><span class="w">' + esc(c[0]) + '</span><span class="track"><i style="width:' + (p[i] * 100).toFixed(1) + '%"></i></span><span class="pc">' + (p[i] * 100 < 0.05 && p[i] > 0 ? '&lt;0.1' : (p[i] * 100).toFixed(1)) + '%</span><span class="tl">' + (tally[i] ? '×' + tally[i] : '') + '</span></div>';
+        h += '<div class="bar' + (st.fresh && st.picks[st.picks.length - 1] === i ? ' hit' : '') + '"><span class="w">' + esc(c[0]) + '</span><span class="track"><i style="width:' + (p[i] * 100).toFixed(1) + '%"></i></span><span class="pc">' + (p[i] * 100 < 0.05 && p[i] > 0 ? '&lt;0.1' : (p[i] * 100).toFixed(1)) + '%</span><span class="tl">' + (tally[i] ? '×' + tally[i] : '') + '</span></div>';
       });
       $('#nt-bars', root).innerHTML = h;
       $('#nt-prompt', root).innerHTML = esc(E.text) + ' <span class="gap">' + (st.picks.length ? esc(E.cands[st.picks[st.picks.length - 1]][0]) : '?') + '</span>';
       $('#nt-tv', root).textContent = st.T.toFixed(1) + (st.T === 0 ? ' (always the top one)' : st.T < 0.7 ? ' (careful)' : st.T <= 1.2 ? ' (balanced)' : ' (adventurous)');
       var kinds = tally.filter(function (n) { return n > 0; }).length;
       $('#nt-sum', root).textContent = st.picks.length ? st.picks.length + (st.picks.length === 1 ? ' pick, ' : ' picks, ') + kinds + (kinds === 1 ? ' different word.' : ' different words.') : 'Press Pick to draw the next word from these chances.';
+      st.fresh = false;
       $('#nt-picks', root).innerHTML = st.picks.slice(-40).map(function (i) { return '<span class="pk">' + esc(E.cands[i][0]) + '</span>'; }).join('');
     }
     $('#nt-t', root).value = st.T;
@@ -138,7 +139,7 @@ var WIDGETS = {};
     onClick(root, function (d) {
       if (d.ex) { st.ex = +d.ex; st.picks = []; }
       else if (d.n === '0') st.picks = [];
-      else if (d.n) { var E = L.examples[st.ex], p = softmax(E.cands.map(function (c) { return c[1]; }), st.T); for (var k = 0; k < +d.n; k++) st.picks.push(draw(p)); }
+      else if (d.n) { var E = L.examples[st.ex], p = softmax(E.cands.map(function (c) { return c[1]; }), st.T); for (var k = 0; k < +d.n; k++) st.picks.push(draw(p)); st.fresh = true; }
       else return;
       update();
     });

diff --git a/README.md b/README.md
@@ -16,6 +16,8 @@ Read `PLAN.md` first (one page). Facts and what is checked: `content/SOURCES.md`
 - **Track 8, Tools in practice** (4 lessons): a tool in your editor, in the terminal, one that takes a ticket and returns a pull request, and a six-question card for any tool you add.
 - **Track 9, Agile x AI** (9 lessons): AI-DLC, the AI-driven development life cycle that AWS published. Why a new life cycle, plan-ask-validate-build and its gates, three phases and who does what, stages and plans, rules and the audit trail, bringing a team along, the facilitator's first week, what the evidence says (and does not), and a rehearsal where you write your own answer before seeing a sample. Sourced from AWS's own post, the white paper and the open tooling docs.
 - Every claim has a source id in `content/SOURCES.md`, with how well each source was checked. Anything unchecked is marked **verify**.
+- Each toy has two or three **challenges** ("Can you… make the model lose the codename?") that tick off as you find them. For the first tracks they are written by hand in `app.js` (`MISSIONS`, keyed by widget name); a toy without an entry gets what can be read from the outside: turn a verdict around, try every choice.
+- **Sound** is off until you turn it on in the Menu: a few soft notes made in the browser, no files.
 - The lesson page is a play mat: the picture you can poke on one side, the questions dealt as a deck beside it, and three steps that tick off (Play, Answer, Read).
 - Every lesson: one idea, one picture you can poke, four questions, Read more in big type (A- / A+), an Agile lens and an In practice line. About ten minutes each.
 - **Prompt sandbox** (Menu, the Map, or the `S` key): scores a prompt against a six-part rubric and warns when text looks like real data (emails, long digit runs, names). It never calls a model. The prompt is not saved; the names you list for it to watch for are kept in this browser only, and left out of the Save file.
